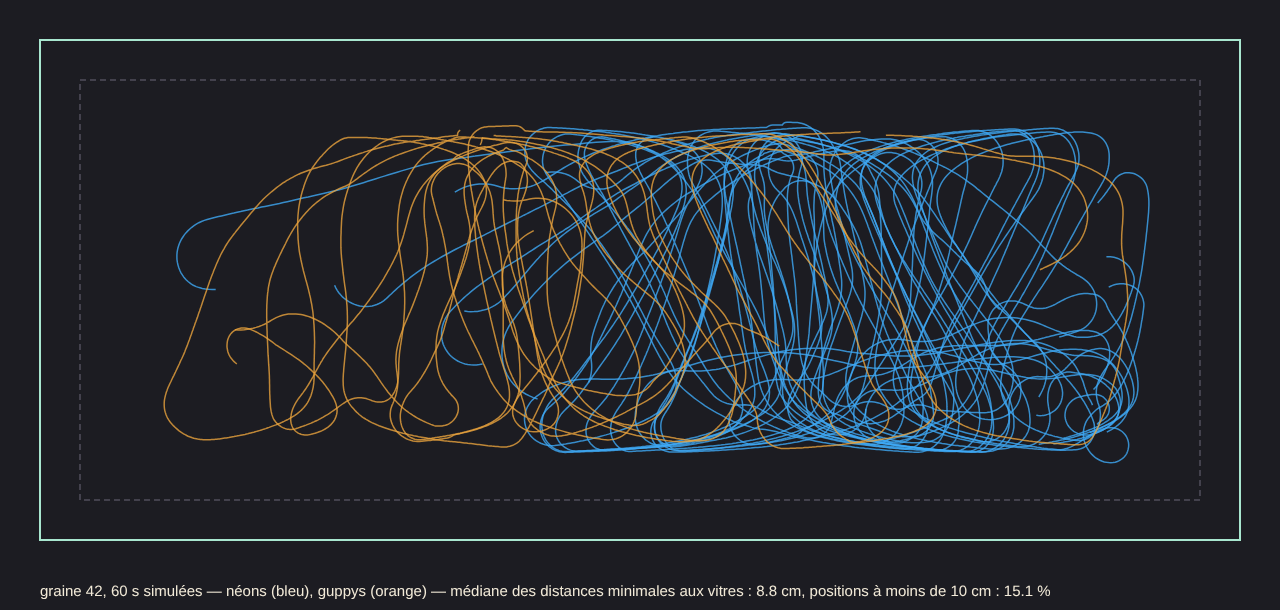
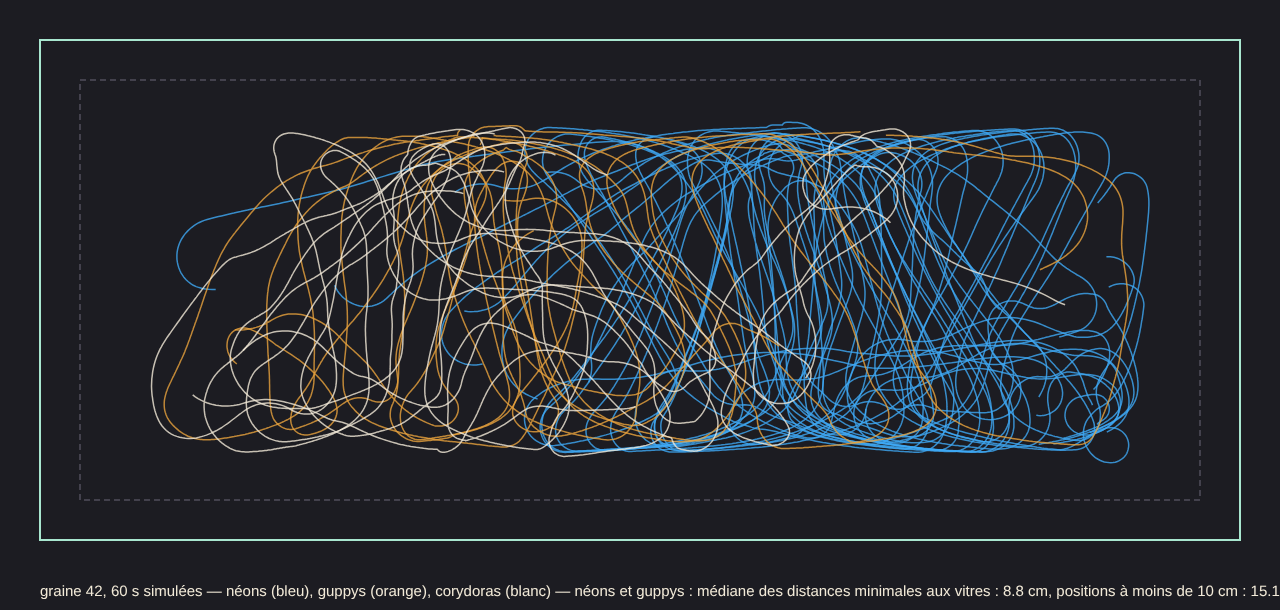
captures(c014): 5 angles

diff --git a/captures/latest/SOURCE.md b/captures/latest/SOURCE.md
@@ -1,6 +1,5 @@
-# Captures c013
+# Source des captures c014
 
-- Branche : cycle/c013-trajectoires-vitres (PR #54)
-- Commit : 9a7cace
-- Graine : 42 ; temps simulé : 30 s ; 1280×720, pixel ratio 1 ; tracé : 60 s
-- Remarque : `bottom.png` identique à c012 ; les autres angles ne diffèrent que par la position des poissons (réglage de la nage). `trajectoires-top.png` : nouveau tracé SVG.
+- Branche : cycle/c014-corydora, PR #56
+- Commit : 4594eec (série) ; e2e ajoutés ensuite (ca6027c)
+- Graine : 42, temps : 30 s (défaut du harnais)

diff --git a/captures/c014/SOURCE.md b/captures/c014/SOURCE.md
@@ -1,0 +1,5 @@
+# Source des captures c014
+
+- Branche : cycle/c014-corydora, PR #56
+- Commit : 4594eec (série) ; e2e ajoutés ensuite (ca6027c)
+- Graine : 42, temps : 30 s (défaut du harnais)
